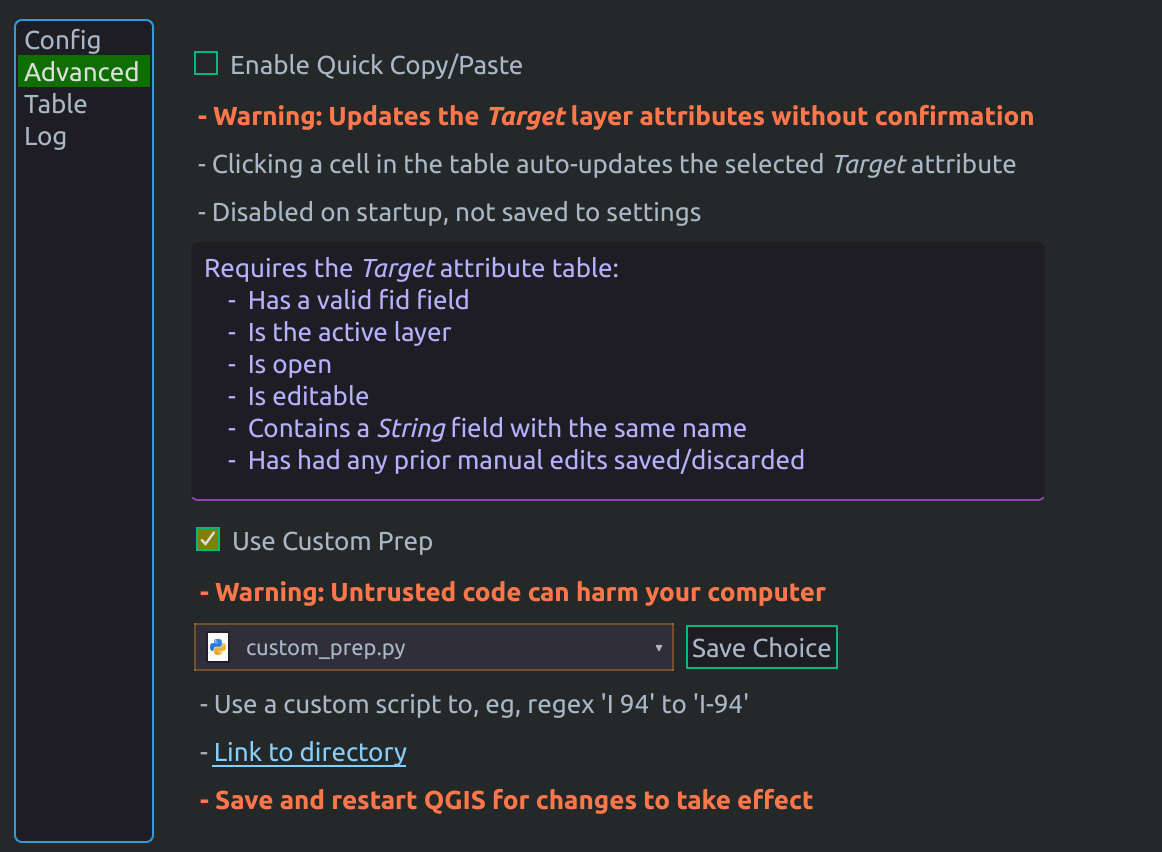
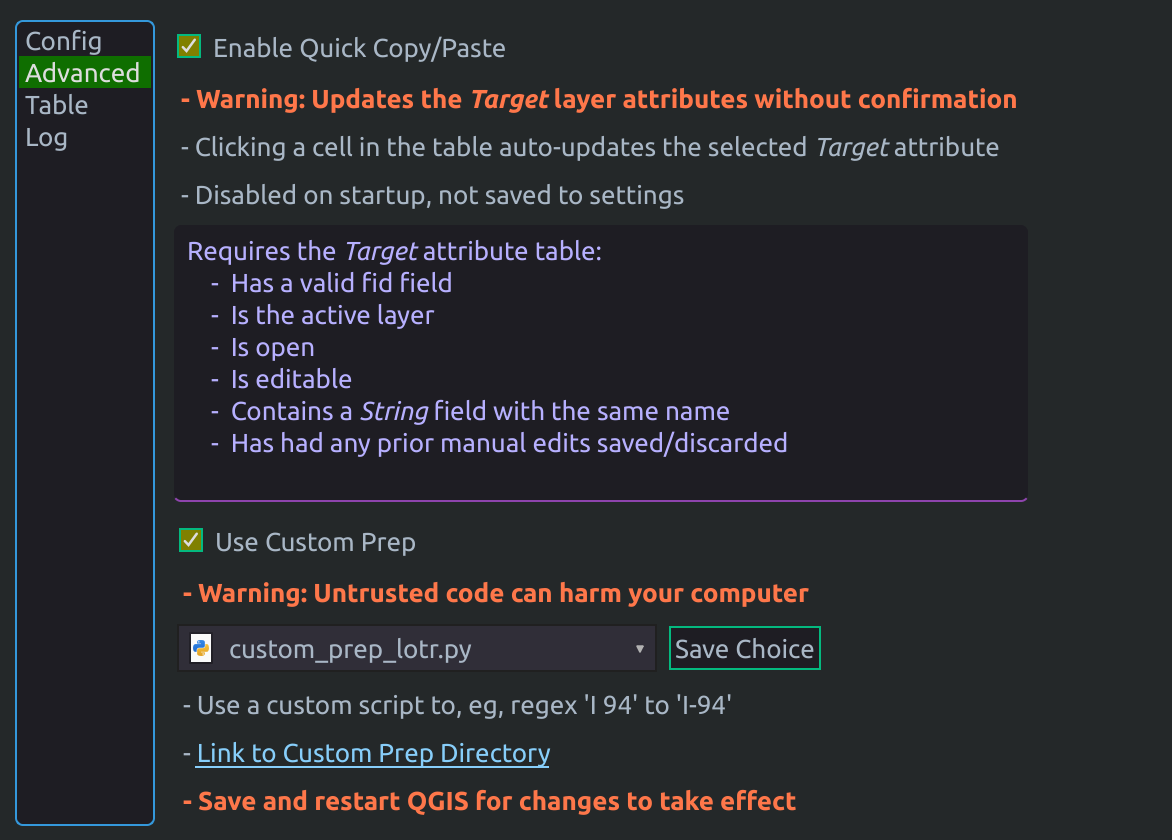
Added loading/saving the copy/paste log

Changed region(s): [[0.0, 0.0, 0.8985, 0.5571], [0.1239, 0.619, 0.7126, 0.9905], [0.0, 0.9595, 0.1239, 0.9905]]

diff --git a/src/dialog.py b/src/dialog.py
@@ -21,7 +21,8 @@ from qgis.PyQt.QtWidgets import QDialog
 from qgis.PyQt.QtWidgets import QMenu
 
 # Python
-from math import isnan
+from math    import isnan
+from os.path import abspath
 import os
 
 # Plugin
@@ -81,7 +82,7 @@ class PluginDialog(QDialog, FORM_CLASS):
 
         # Add link to custom_prep directory
         fpath    = os.path.join(os.path.dirname(__file__), 'custom_prep')
-        path_str = '- <a href =' + fpath + '><span style="color:lightskyblue;">Link to directory</span></a>'
+        path_str = '- <a href =' + fpath + '><span style="color:lightskyblue;">Link to Custom Prep Directory</span></a>'
         self.customPrepLink.setText(path_str)
         self.customPrepLink.setToolTip(fpath)
         self.customPrepLink.setOpenExternalLinks(True)
@@ -104,6 +105,13 @@ class PluginDialog(QDialog, FORM_CLASS):
         self.selection_model = self.tableView.selectionModel()
         self.set_table_font()
         self.update_table_panel_lbls()
+
+        # Add link to log directory
+        fpath    = self.get_user_folder()
+        path_str = '- <a href =' + fpath + '><span style="color:lightskyblue;">Link to Log Directory</span></a>'
+        self.logDirLink.setText(path_str)
+        self.logDirLink.setToolTip(fpath)
+        self.logDirLink.setOpenExternalLinks(True)
 
 
         ###################
@@ -133,6 +141,11 @@ class PluginDialog(QDialog, FORM_CLASS):
 
         # Save only custom prep script choice
         self.saveCustomPrep.clicked.connect(lambda: self.save_custom_prep())
+
+        self.clearLog.clicked.connect(self.clear_log)
+        self.saveLog.clicked.connect(self.save_log)
+        self.appendLog.clicked.connect(self.append_log)
+        self.loadLog.clicked.connect(self.load_log)
         
         # Connect the Menu/Done buttons
         self.showMenu.clicked.connect(self.show_menu)
@@ -310,6 +323,44 @@ class PluginDialog(QDialog, FORM_CLASS):
                     self.nnNotes.append('Estimated ' + pre_bold + 'Max Distance' + suf + ' error:')
                     self.nnNotes.append(pre_blue + ' - Lat' + suf + ': ' + pre_bold + str(deg_err[0]) + suf + ' m')
                     self.nnNotes.append(pre_blue + ' - Lon' + suf + ': ' + pre_bold + str(deg_err[1]) + suf + ' m')
+
+
+    def get_user_folder(self):
+        path = abspath(os.path.join(self.qapp.qgisSettingsDirPath(), 'GetFeats'))
+        if not QDir(path).exists():
+            QDir().mkdir(path)
+    
+        return path
+
+    def clear_log(self):
+        self.copyPasteLog.clear() 
+
+    def save_log(self):
+        dirpath = self.get_user_folder()
+        fpath   = os.path.join(dirpath, 'qcplog.txt')
+        with open(fpath, 'w') as outfile:
+            outfile.write(str(self.copyPasteLog.toPlainText()))
+            self.msg.pushInfo('GetFeats:', 'Log file overwritten')
+
+    def append_log(self):
+        dirpath = self.get_user_folder()
+        fpath   = os.path.join(dirpath, 'qcplog.txt')
+        with open(fpath, 'a') as outfile:
+            outfile.write('\n' + str(self.copyPasteLog.toPlainText()))
+            self.msg.pushInfo('GetFeats:', 'Log appended to file')
+
+    def load_log(self):
+        dirpath = self.get_user_folder()
+        fpath   = os.path.join(dirpath, 'qcplog.txt')
+        if os.path.isfile(fpath):
+            with open(fpath, 'r') as infile:
+                oldlog = open(fpath).read()
+                self.copyPasteLog.setPlainText(oldlog)
+                self.msg.pushInfo('GetFeats:', 'Log loaded from file')
+        else:
+            self.msg.pushInfo('GetFeats:', 'No log file found')
+
+
 
     def on_close(self):
         self.activatePlugin.setChecked(False)

diff --git a/README.md b/README.md
@@ -123,5 +123,13 @@ The plugin directory can be found from the QGIS menu bar:
   - Can be used to:
     - Track the amount of time spent on each feature.
     - Check for errant copy/pastes.
+  - Reset the log window by clicking **Clear Log**.
+  - Logs can also be saved/loaded from the profile directory.
+    - Loaded logs can be distinguished from the current session by lack of text formatting.
+    - Logs are saved as `qcplogt.txt`, manual backup is required to maintain multiple logs.
+    - Warnings:
+      - **Load Log** overwrites the current log panel.
+      - **Save Log (Overwrite)** overwrites the existing log file.
+      - **Save Log (Append)** appends to the end of the existing log file.
 
 <br clear="right"/>
